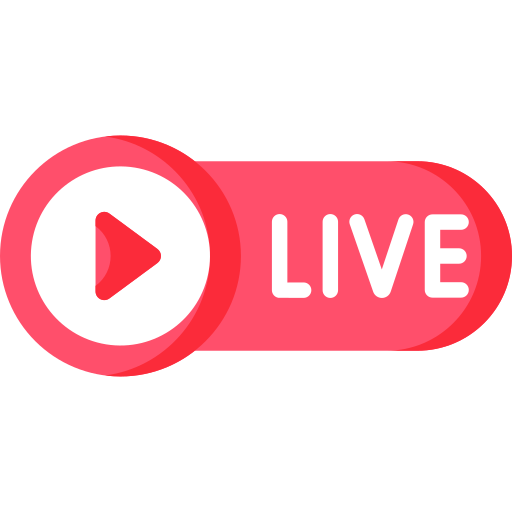
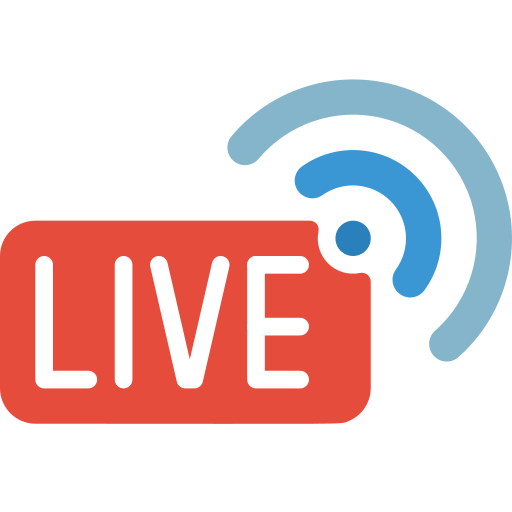
Version 1.0.10
+ changed live image to be less bright and in your face
+ live streams are now announced after 10 minutes instead of 5 minutes

diff --git a/src/events/voiceStateUpdate/detect-stream.js b/src/events/voiceStateUpdate/detect-stream.js
@@ -81,7 +81,7 @@ module.exports = async (oldVoiceState, newVoiceState) => {
 
         // Remove the timer from the map after announcing it to the channel.
         timers.delete(newVoiceState.id);
-    }, 300000); // 300000 = 5 minutes.
+    }, 600000); // 600000 = 10 minutes.
 
     // Store the timer in the map.
     timers.set(newVoiceState.id, timer);
